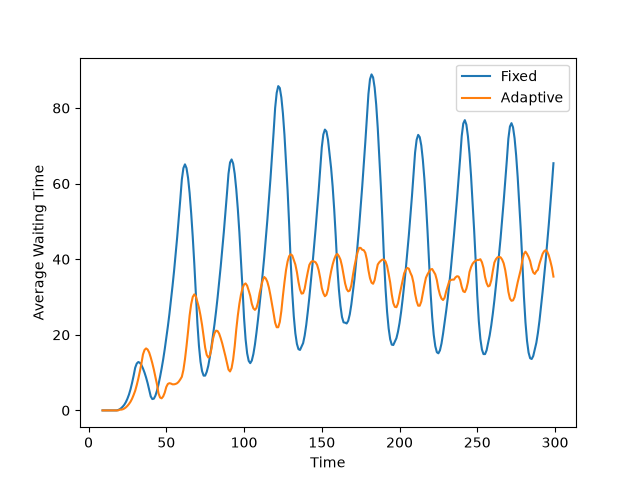
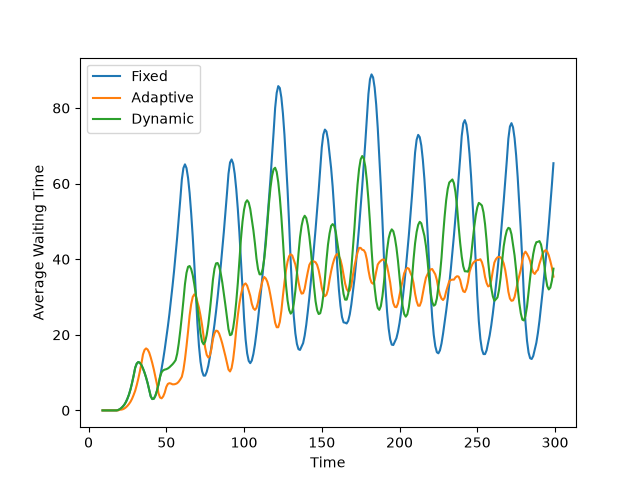
Added results for dynamic control, not as great as adaptive currently

diff --git a/results/plot.py b/results/plot.py
@@ -3,15 +3,19 @@ import matplotlib.pyplot as plt
 
 fixed = pd.read_csv("fixed.csv")
 adaptive = pd.read_csv("adaptive.csv")
+dynamic = pd.read_csv("dynamic.csv")
 
 fixed["smooth"] = fixed["wait"].rolling(10).mean()
 adaptive["smooth"] = adaptive["wait"].rolling(10).mean()
+dynamic["smooth"]=dynamic["wait"].rolling(10).mean()
 
 print("Fixed avg wait:", fixed["wait"].mean())
 print("Adaptive avg wait:", adaptive["wait"].mean())
+print("Dynamic avg wait:", dynamic["wait"].mean())
 
 print("Fixed max wait:", fixed["wait"].max())
 print("Adaptive max wait:", adaptive["wait"].max())
+print("Dynamic max wait:", dynamic["wait"].max())
 
 plt.plot(
     fixed["time"],
@@ -23,6 +27,12 @@ plt.plot(
     adaptive["time"],
     adaptive["smooth"],
     label="Adaptive"
+)
+
+plt.plot(
+    dynamic["time"],
+    dynamic["smooth"],
+    label="Dynamic"
 )
 
 plt.xlabel("Time")